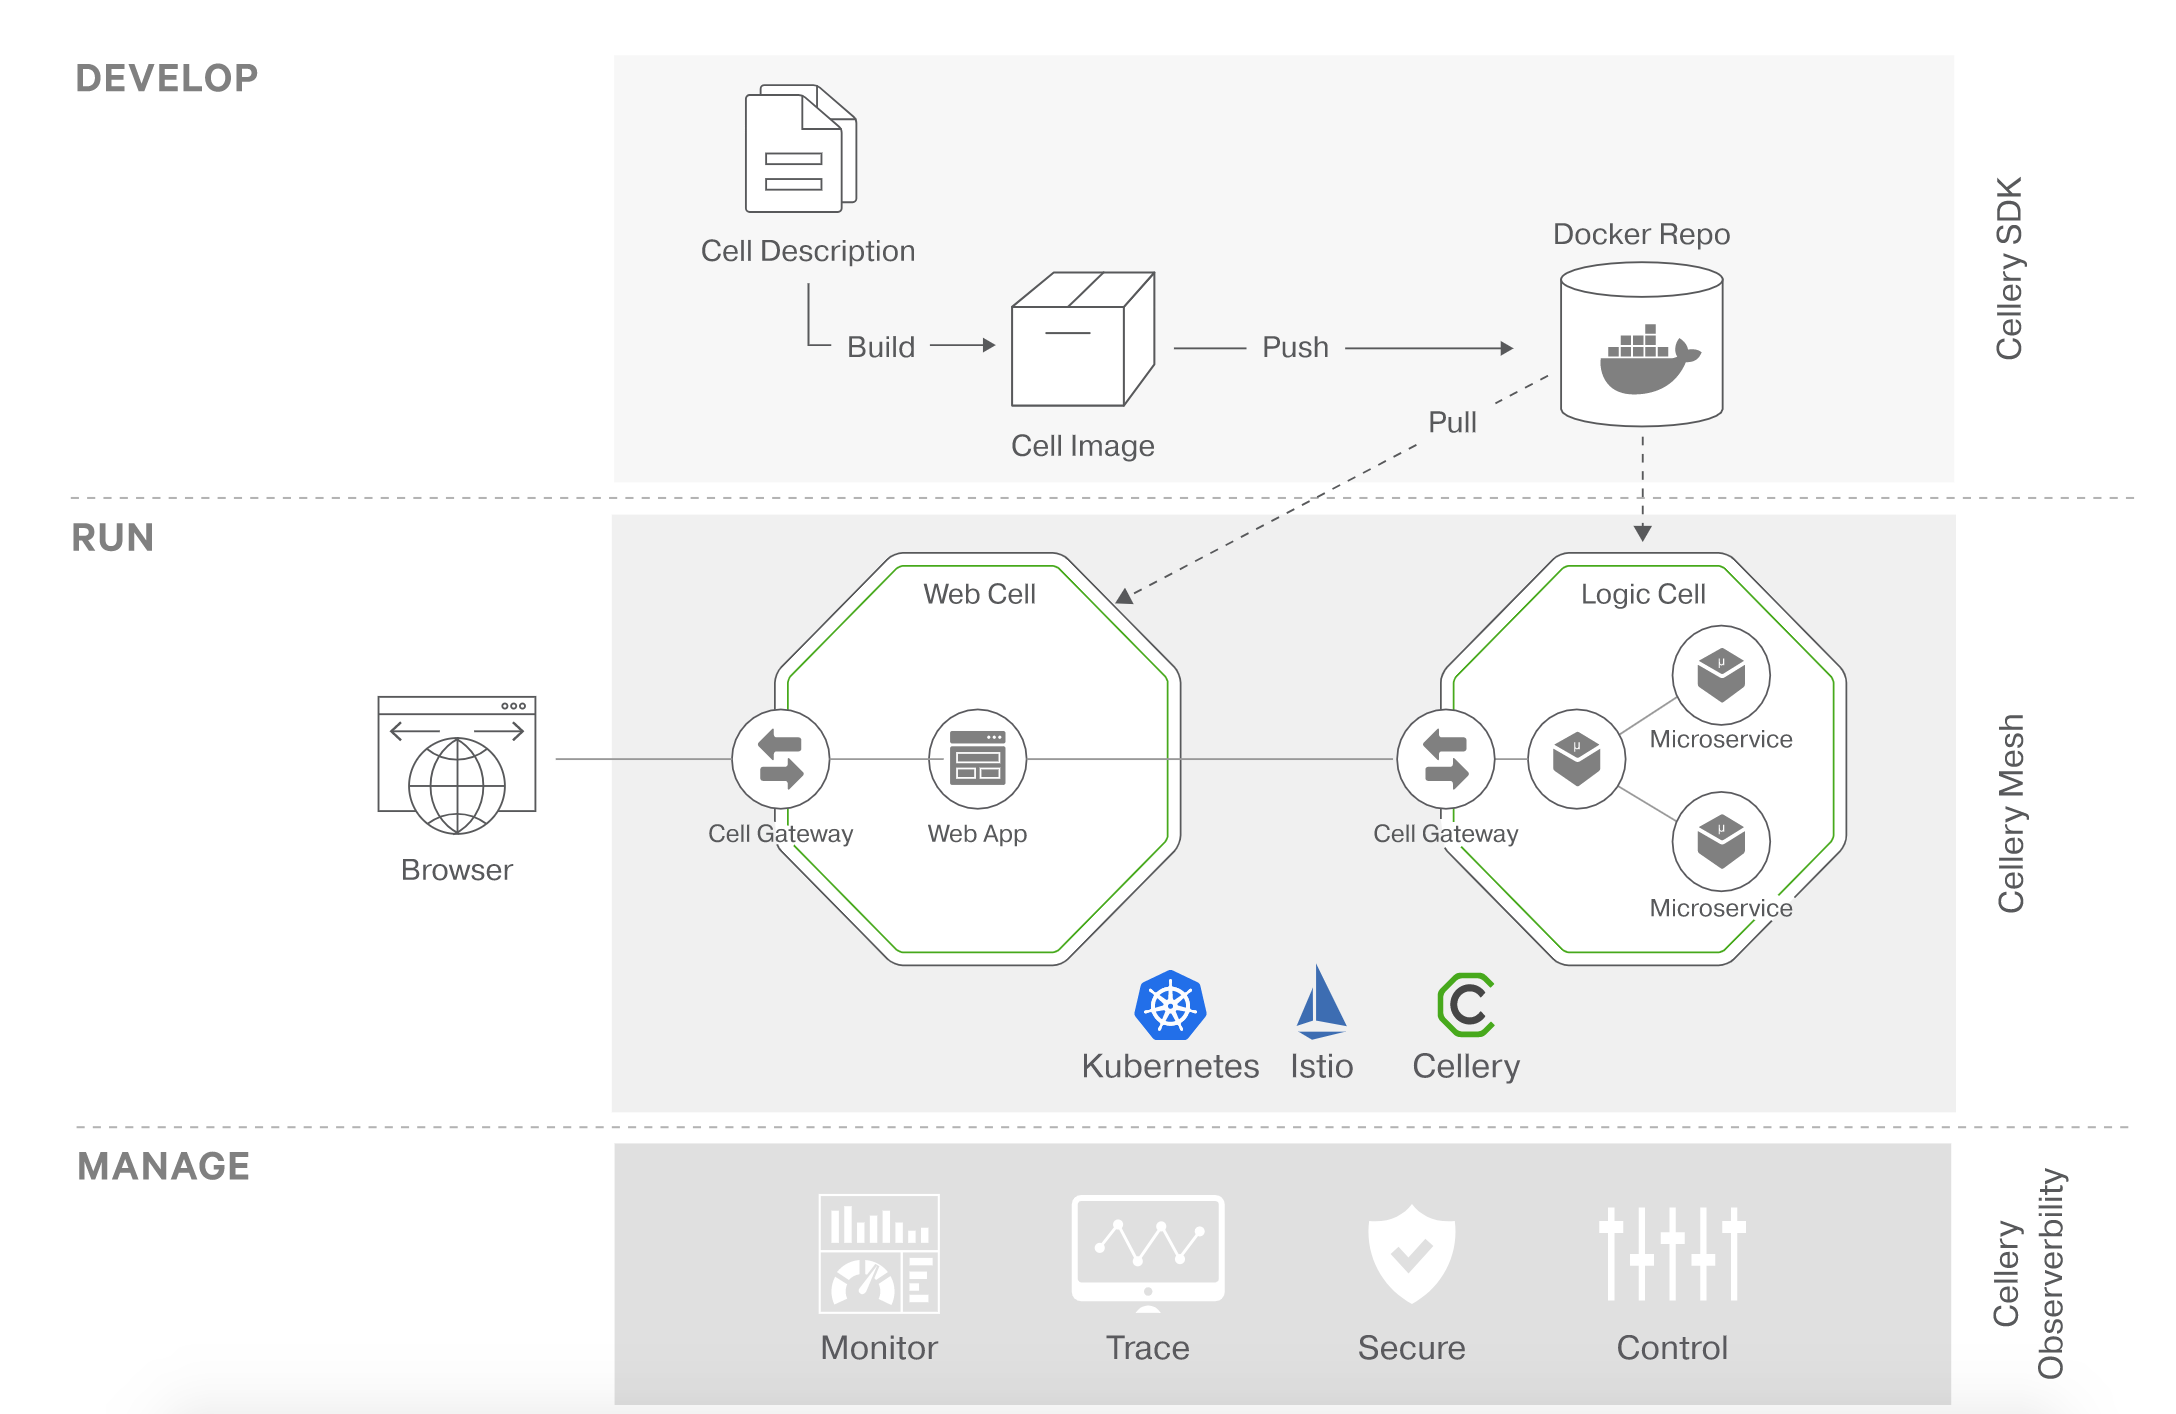
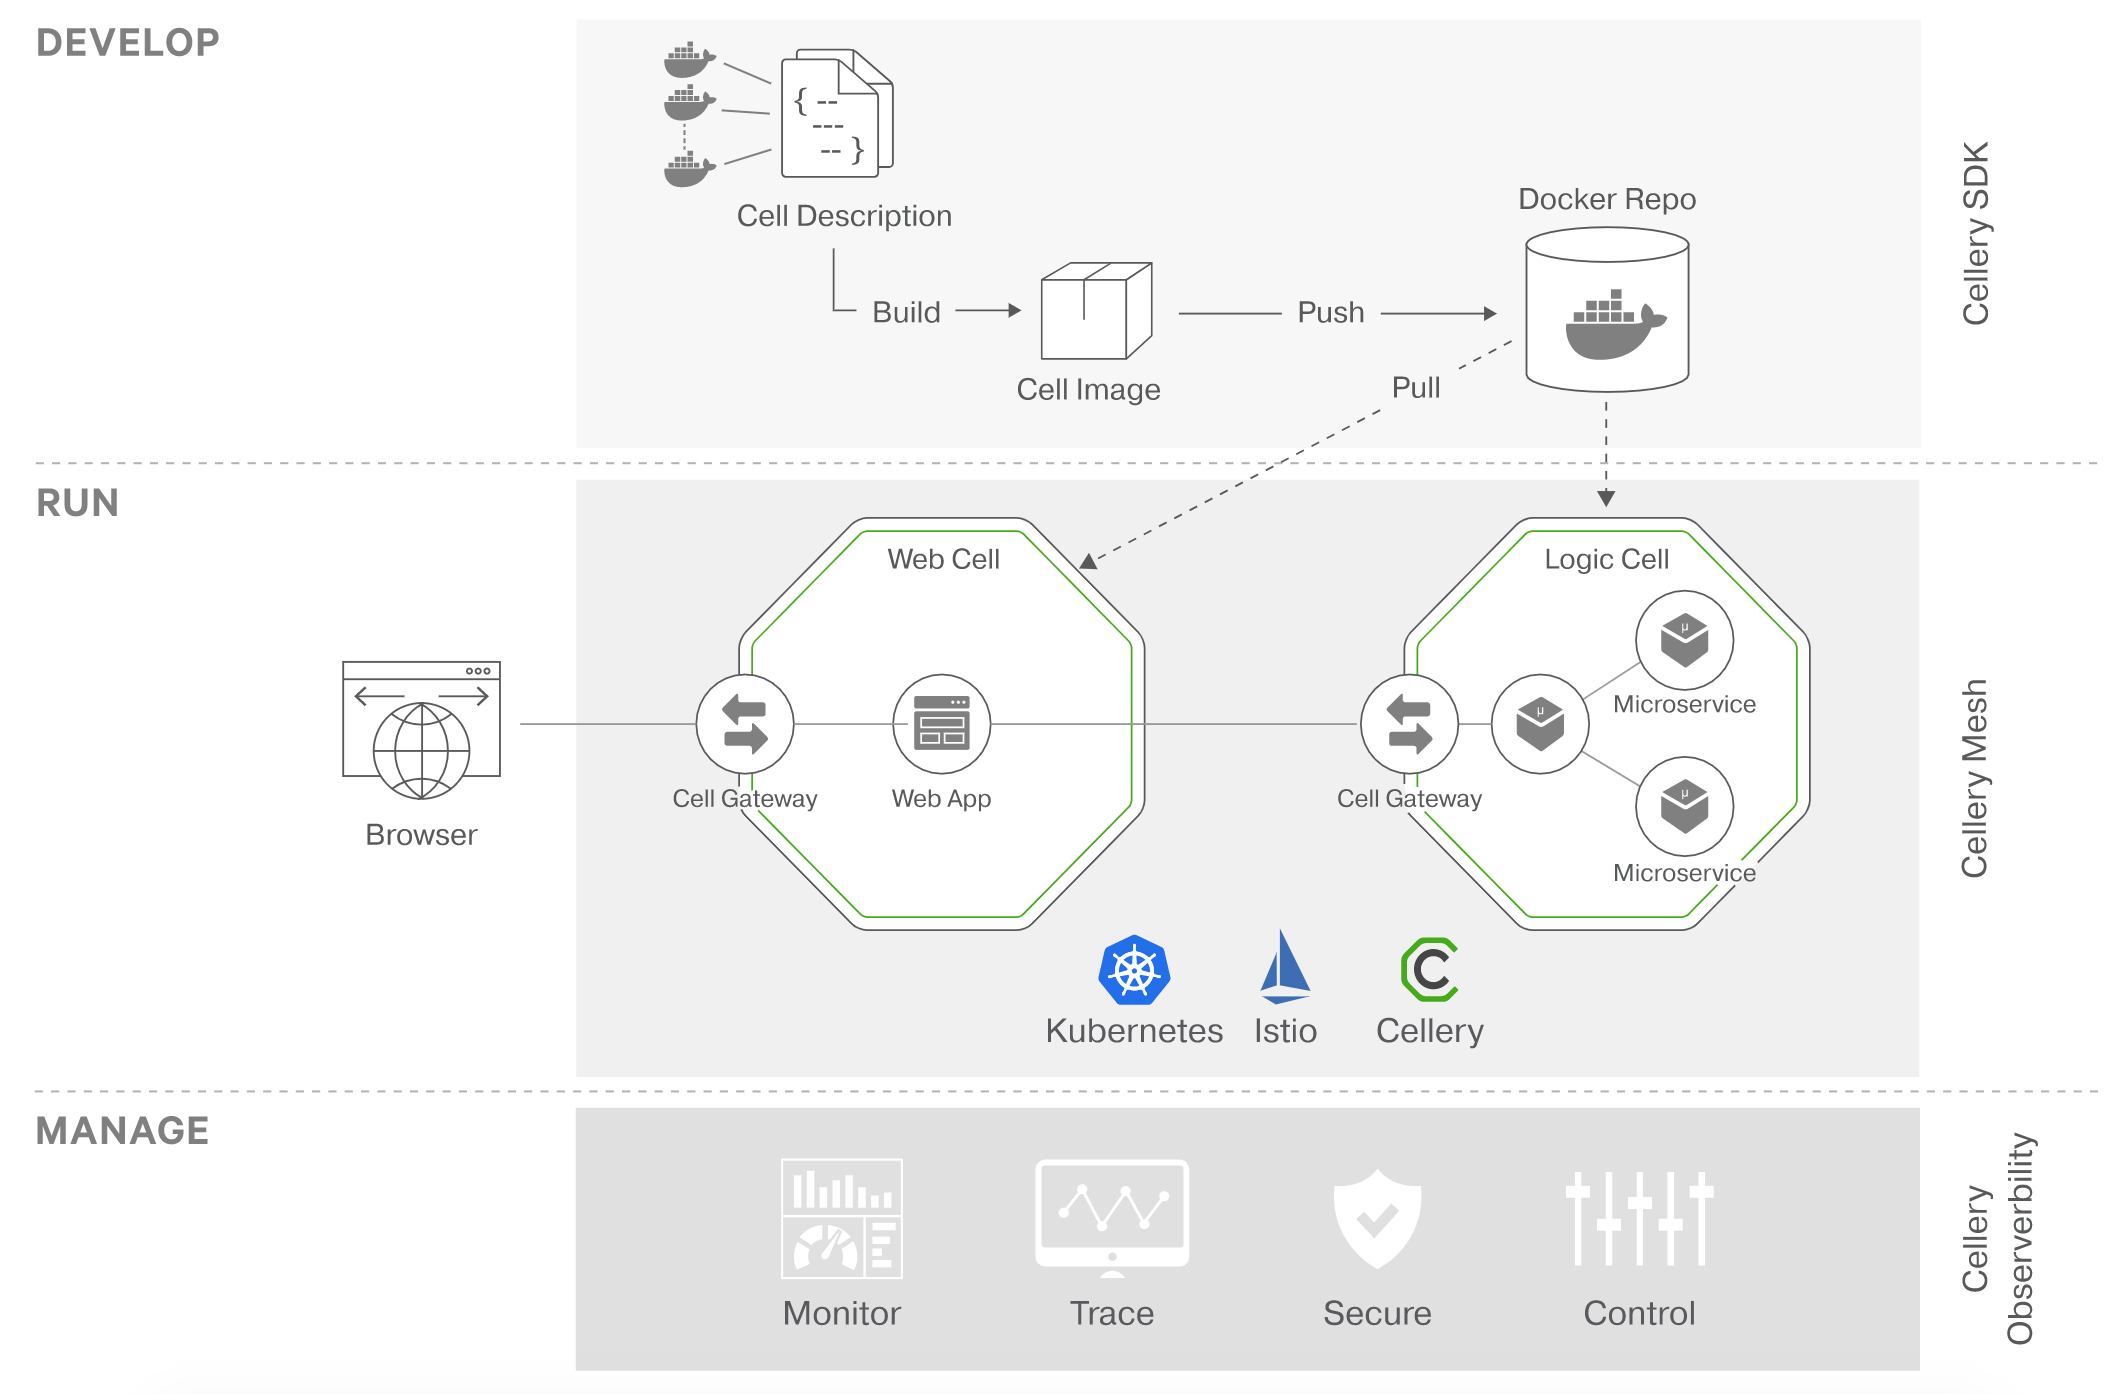
More improvements to README

diff --git a/README.md b/README.md
@@ -49,13 +49,29 @@ You can read more about this approach [here](https://wso2-cellery.github.io/phil
 
 ![Cellery intro](docs/images/cellery-intro.png)
 
-TODO: Need to explain the diagram
+Cellery provides a developer tooling, runtime and a management plane. This allows you to develop,
+run and manage your composite microservice applications on Kubernetes. 
 
-Cellery is composed of these components:
+- Cellery SDK
+    
+    The SDK allows developers to write cells, build them, run them & manage them. 
+    A cell description file is written using the [Ballerina](https://ballerina.io) programming language. 
+    In a nutshell, this file declares the microservice components that have to be included in the cell,
+    the relationship between those components, dependencies to other cells, and it also declares the API 
+    that need to be exposed.
+    
+    A CLI is also part of this SDK, which allows you to build, run, test and manage your cells. 
+    
+- Cellery Mesh
 
-- **CLI** - TODO:
-- **Mesh** - TODO:
-- **Observability** - TODO:
+    The mesh provides the wiring & communications medium between cells. Components in a cell cannot invoke
+    components in other cells directly. Only APIs exposed by the cells are invokable. These interactions are 
+    strictly governed by security policies.
+
+- Cellery Management 
+
+    This consists of a management plane, which allows you to observe your cells in the runtime, as well 
+    as other runtime aspects, and it also allows you to manage security and other policies.
 
 ---
 

diff --git a/docs/community.md b/docs/community.md
@@ -1,1 +1,6 @@
 ### Cellery community
+
+You can engage with the Cellery community using these channels:
+
+1. [Cellery dev mailing list](mailto:celler-dev@googlegroup.com) - ask questions about Cellery
+2. [Report issues](https://github.com/wso2-cellery/sdk/issues) - report issues in Cellery
